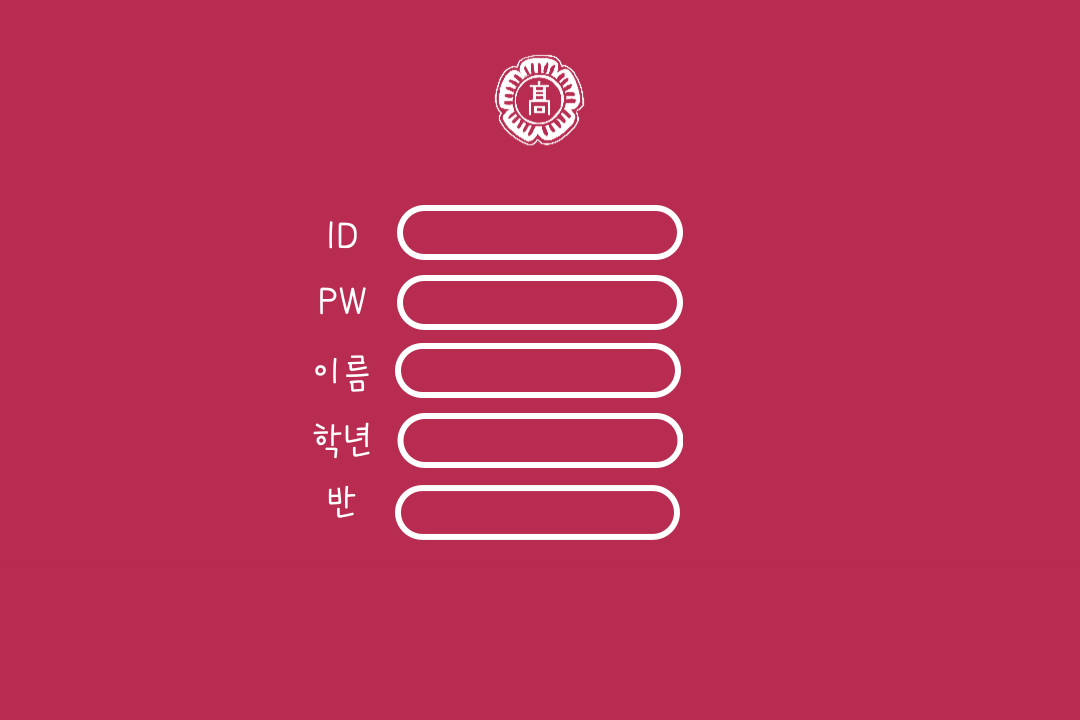
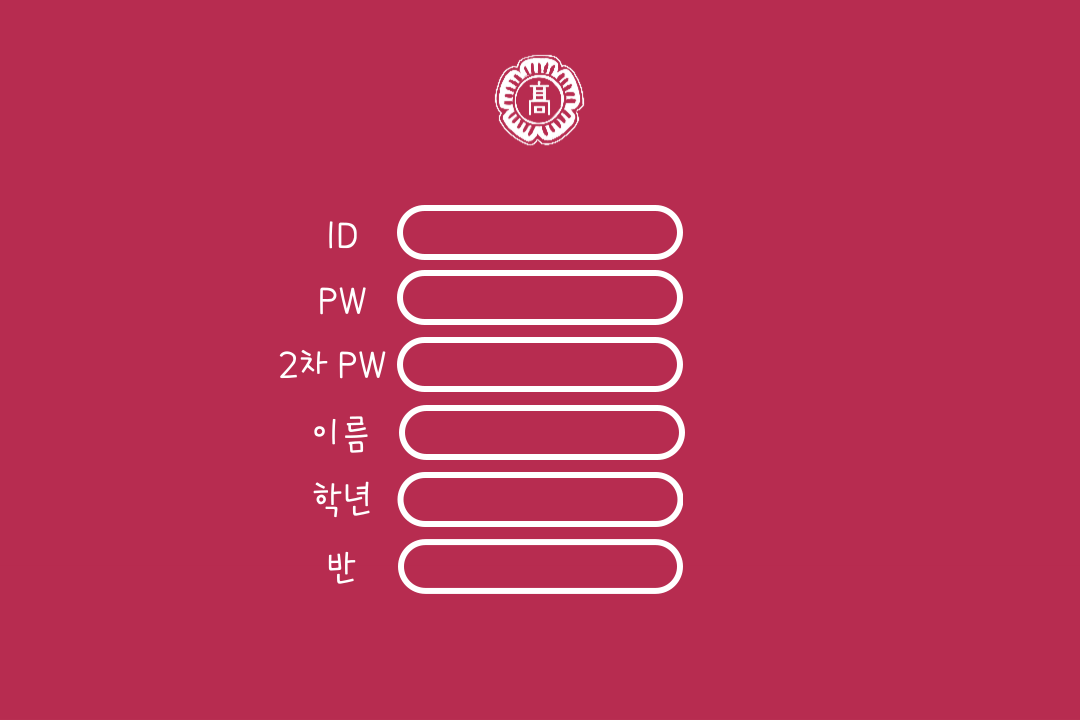
UI 이미지, 구성 수정

Changed region(s): [[0.2444, 0.3667, 0.6417, 0.825], [0.275, 0.5806, 0.3361, 0.6417], [0.3056, 0.7639, 0.3361, 0.825]]

diff --git a/reservationKSH/JoinPanel.java b/reservationKSH/JoinPanel.java
@@ -12,9 +12,31 @@ public class JoinPanel extends JPanel{
     private Image backgroundImage;
     private ImageIcon joinEnteredIcon = new ImageIcon("images/btn_join_entered.png");
     private ImageIcon backEnteredIcon = new ImageIcon("images/btn_back_entered.png");
+
+    public JTextField id;
+    public JPasswordField pw;
+    public JTextField name;
+    public JTextField ngrade;
+    public JTextField nclass;
+
     public JoinPanel(LoginPanel loginPanel){
         setLayout(null); // 널 레이아웃 사용
         backgroundImage = new ImageIcon("images/join.png").getImage(); // 배경 이미지 설정
+
+        id = new JTextField();
+        id.setBounds(420,205,200,30);
+        id.setOpaque(false);
+        id.setBorder(null);
+        id.setForeground(Color.WHITE);
+        Font font = new Font("SansSerif", Font.PLAIN, 30);
+        id.setFont(font);
+
+        pw = new JPasswordField(20);
+        pw.setBounds(420,285,200,30);
+        pw.setOpaque(false);
+        pw.setBorder(null);
+        pw.setForeground(Color.WHITE);
+        pw.setFont(font);
 
         // 버튼 설정
         ImageIcon joinIcon = new ImageIcon("images/btn_join.png");
@@ -67,6 +89,8 @@ public class JoinPanel extends JPanel{
 
         // 회원가입 버튼에 대한 이벤트 리스너 설정
 
+        add(id);
+        add(pw);
         add(joinButton);
         add(backButton);
     }

diff --git a/reservationKSH/LoginPanel.java b/reservationKSH/LoginPanel.java
@@ -29,6 +29,9 @@ public class LoginPanel extends JFrame{
 
     public Container cPane;
 
+    public JTextField id;
+    public JPasswordField pw;
+
     public void switchPanel(JPanel panel){
         getContentPane().removeAll(); // 기존 패널 제거
         getContentPane().add(panel); // 새로운 패널 추가
@@ -52,6 +55,21 @@ public class LoginPanel extends JFrame{
         setIconImage(img);
 
         loginpanel = new drawback();
+
+        id = new JTextField();
+        id.setBounds(420,325,200,30);
+        id.setOpaque(false);
+        id.setBorder(null);
+        id.setForeground(Color.WHITE);
+        Font font = new Font("SansSerif", Font.PLAIN, 30);
+        id.setFont(font);
+
+        pw = new JPasswordField(20);
+        pw.setBounds(420,395,200,30);
+        pw.setOpaque(false);
+        pw.setBorder(null);
+        pw.setForeground(Color.WHITE);
+        pw.setFont(font);
 
         loginButton.setBounds(700,310,130,129);
         loginButton.setBorderPainted(false);
@@ -148,6 +166,8 @@ public class LoginPanel extends JFrame{
         loginpanel.add(loginButton);
         loginpanel.add(joinButton);
         loginpanel.add(closeButton);
+        loginpanel.add(id);
+        loginpanel.add(pw);
         setVisible(true);
     }
     class drawback extends JPanel{
